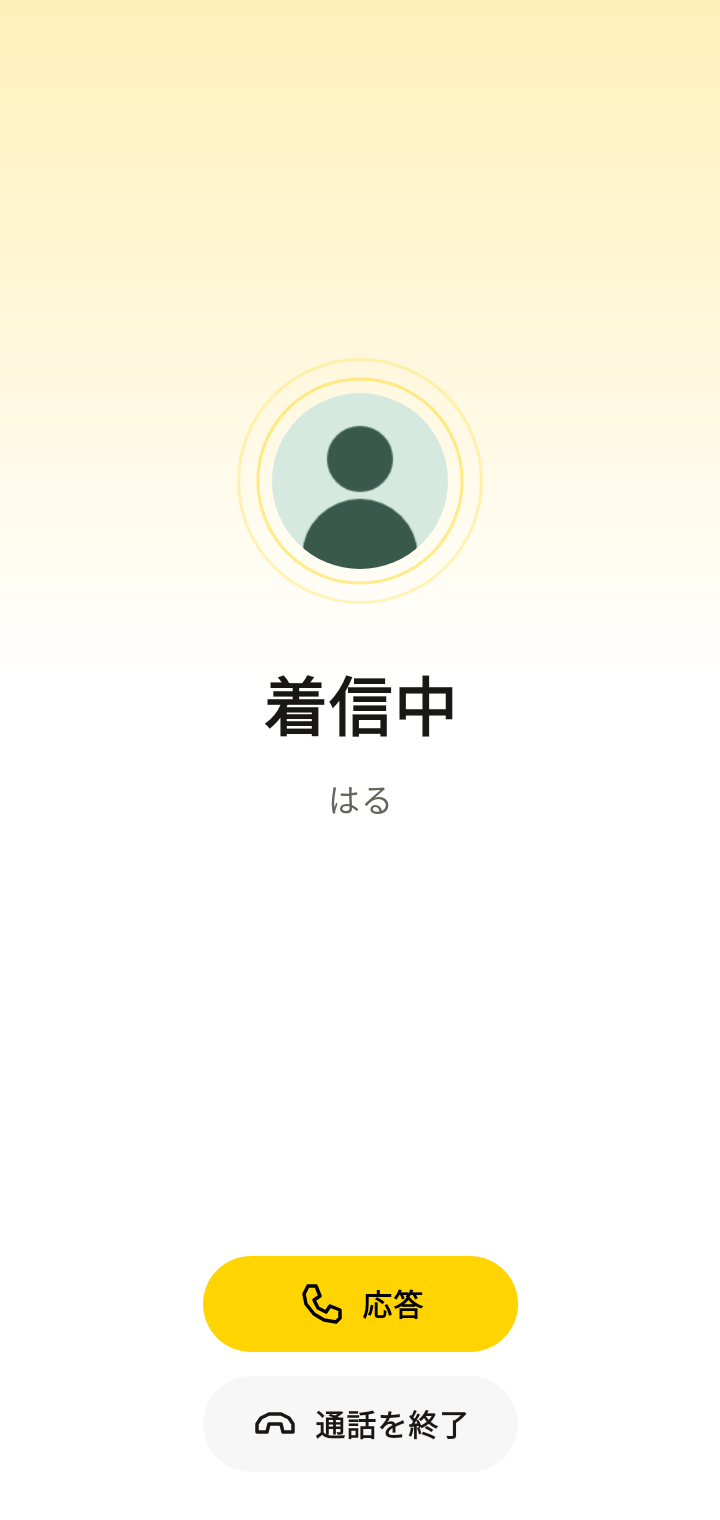
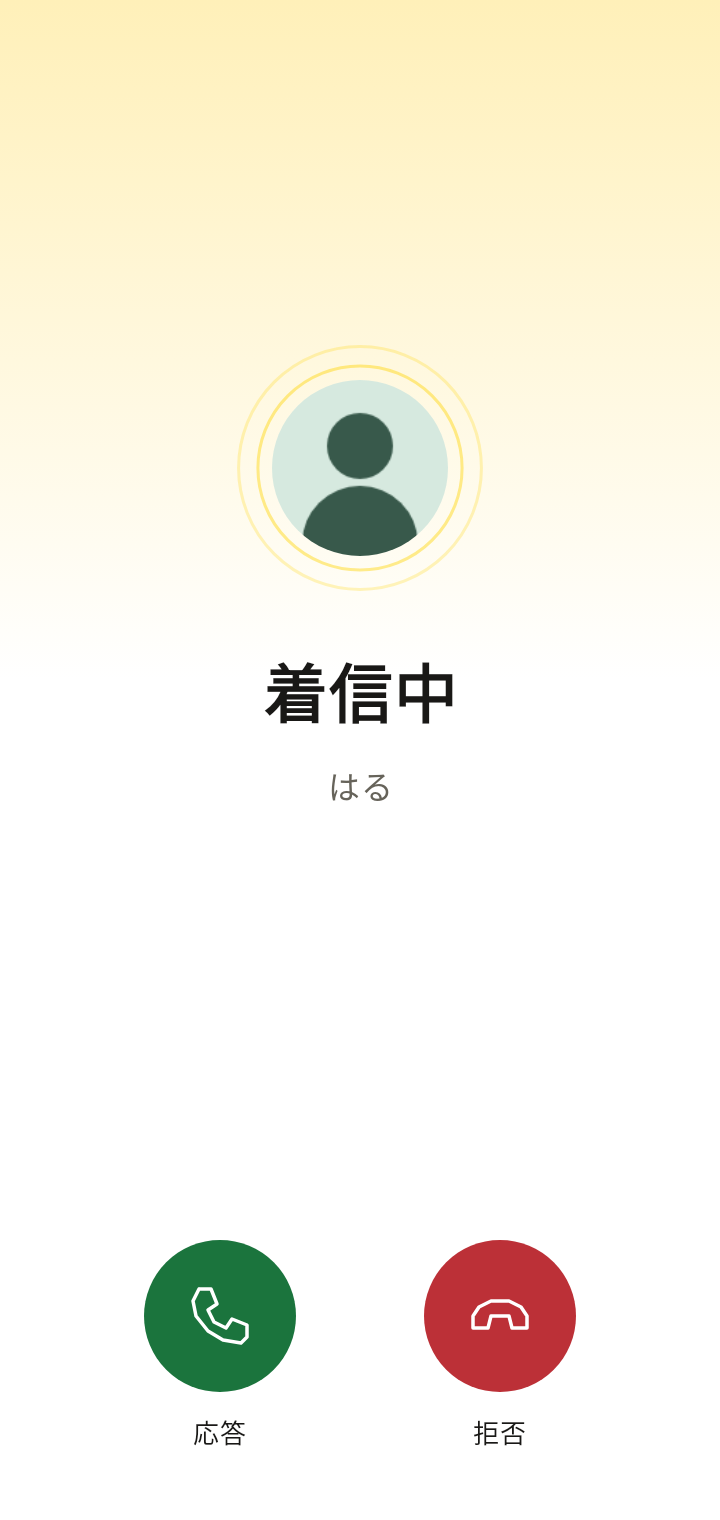
Android 着信の応答と拒否を色付きの円形ボタンにする

Changed region(s): [[0.1833, 0.8039, 0.7944, 0.9586], [0.3361, 0.2164, 0.6722, 0.402], [0.3667, 0.4329, 0.6417, 0.5566]]

diff --git a/frontend-compose/androidApp/src/main/kotlin/zoo/android/ui/AndroidScreens.kt b/frontend-compose/androidApp/src/main/kotlin/zoo/android/ui/AndroidScreens.kt
@@ -324,7 +324,19 @@ private fun RenderAndroidScreen(
                     CallAvatar(screen, colors, foreground && !interaction.reducedMotion, remoteAudioLevel)
                 },
             ) {
-                Column(Modifier.width(IntrinsicSize.Max), verticalArrangement = Arrangement.spacedBy(12.dp)) {
+                if (screen.incoming) {
+                    Row(
+                        Modifier.fillMaxWidth().padding(horizontal = 16.dp, vertical = 8.dp),
+                        horizontalArrangement = Arrangement.SpaceAround,
+                    ) {
+                        IncomingCallAction("応答", UiIcon.Phone, Color(0xff1b743d), colors) {
+                            dispatch(AndroidUiAction.Answer)
+                        }
+                        IncomingCallAction("拒否", UiIcon.PhoneOff, Color(0xffbc3037), colors) {
+                            dispatch(AndroidUiAction.HangUp)
+                        }
+                    }
+                } else Column(Modifier.width(IntrinsicSize.Max), verticalArrangement = Arrangement.spacedBy(12.dp)) {
                     if (screen.active) Row(Modifier.fillMaxWidth(), horizontalArrangement = Arrangement.spacedBy(20.dp, Alignment.CenterHorizontally)) {
                         CallToggle("ミュート", if (screen.muted) UiIcon.MicOff else UiIcon.Mic, screen.muted, colors) {
                             dispatch(AndroidUiAction.MuteCall)
@@ -334,12 +346,6 @@ private fun RenderAndroidScreen(
                         }
                     }
 
-                    if (screen.incoming) {
-                        TextAction("応答", colors, modifier = Modifier.fillMaxWidth(),
-                            icon = UiIcon.Phone, labelWeight = AndroidWeights.emphasis) {
-                            dispatch(AndroidUiAction.Answer)
-                        }
-                    }
                     TextAction("通話を終了", colors, style = TextActionStyle.Neutral, modifier = Modifier.fillMaxWidth(),
                         icon = UiIcon.PhoneOff, labelWeight = AndroidWeights.emphasis) {
                         dispatch(AndroidUiAction.HangUp)

diff --git a/frontend-compose/ui-preview/src/test/kotlin/zoo/android/ui/AndroidSamplesTest.kt b/frontend-compose/ui-preview/src/test/kotlin/zoo/android/ui/AndroidSamplesTest.kt
@@ -171,10 +171,13 @@ class AndroidSamplesTest {
                     ) { "Expected an 8dp inset around the post actions: $post / $photos / $toolbar" }
                 }
                 if (name == "call") {
-                    val answer = ui.onNodeWithText("応答").assertHeightIsEqualTo(48.dp).getUnclippedBoundsInRoot()
-                    val hangUp = ui.onNodeWithText("通話を終了").assertHeightIsEqualTo(48.dp).getUnclippedBoundsInRoot()
-                    check(answer.left == hangUp.left && answer.right == hangUp.right &&
-                        hangUp.top - answer.bottom == 12.dp) { "Incoming call actions should align: $answer / $hangUp" }
+                    ui.onNodeWithText("応答").assertHasClickAction()
+                    ui.onNodeWithText("拒否").assertHasClickAction()
+                    val answer = ui.onNodeWithTag("incoming-call-応答", useUnmergedTree = true)
+                        .assertWidthIsEqualTo(76.dp).assertHeightIsEqualTo(76.dp).getUnclippedBoundsInRoot()
+                    val decline = ui.onNodeWithTag("incoming-call-拒否", useUnmergedTree = true)
+                        .assertWidthIsEqualTo(76.dp).assertHeightIsEqualTo(76.dp).getUnclippedBoundsInRoot()
+                    check(answer.right < decline.left && answer.top == decline.top)
                 }
                 if (name == "call-active") {
                     ui.onNodeWithText("ミュート").assertIsOff()

diff --git a/frontend-compose/androidApp/src/main/kotlin/zoo/android/ui/CallAvatar.kt b/frontend-compose/androidApp/src/main/kotlin/zoo/android/ui/CallAvatar.kt
@@ -9,6 +9,7 @@ import androidx.compose.animation.core.tween
 import androidx.compose.foundation.Canvas
 import androidx.compose.foundation.Image
 import androidx.compose.foundation.background
+import androidx.compose.foundation.clickable
 import androidx.compose.foundation.selection.toggleable
 import androidx.compose.foundation.layout.Arrangement
 import androidx.compose.foundation.layout.Box
@@ -98,5 +99,20 @@ internal fun CallToggle(label: String, icon: UiIcon, active: Boolean, colors: An
             UiGlyph(icon, if (active) Color.Black else colors.foreground)
         }
         Text(label, color = colors.foreground, fontSize = 12.sp, fontWeight = AndroidWeights.label)
+    }
+}
+
+@Composable
+internal fun IncomingCallAction(label: String, icon: UiIcon, fill: Color, colors: AndroidColors, action: () -> Unit) {
+    Column(
+        Modifier.clickable(role = Role.Button, onClick = action),
+        horizontalAlignment = Alignment.CenterHorizontally,
+        verticalArrangement = Arrangement.spacedBy(8.dp),
+    ) {
+        Box(Modifier.size(76.dp).testTag("incoming-call-$label").background(fill, CircleShape),
+            contentAlignment = Alignment.Center) {
+            UiGlyph(icon, Color.White, iconSize = 36.dp)
+        }
+        Text(label, color = colors.foreground, fontSize = 13.sp, fontWeight = AndroidWeights.label)
     }
 }

diff --git a/frontend-compose/androidApp/src/main/kotlin/zoo/android/ui/UiIcon.kt b/frontend-compose/androidApp/src/main/kotlin/zoo/android/ui/UiIcon.kt
@@ -19,6 +19,7 @@ import androidx.compose.ui.graphics.drawscope.Stroke
 import androidx.compose.ui.semantics.Role
 import androidx.compose.ui.semantics.contentDescription
 import androidx.compose.ui.semantics.semantics
+import androidx.compose.ui.unit.Dp
 import androidx.compose.ui.unit.dp
 
 internal object AndroidControlSize {
@@ -56,8 +57,8 @@ internal fun UiIconButton(
 }
 
 @Composable
-internal fun UiGlyph(icon: UiIcon, color: Color) {
-    Canvas(Modifier.size(AndroidControlSize.icon)) {
+internal fun UiGlyph(icon: UiIcon, color: Color, iconSize: Dp = AndroidControlSize.icon) {
+    Canvas(Modifier.size(iconSize)) {
         fun point(x: Float, y: Float) = Offset(x * size.width / 24, y * size.height / 24)
         val width = 1.75.dp.toPx()
         fun lines(vararg points: Pair<Int, Int>) {

diff --git a/docs/android-design.md b/docs/android-design.md
@@ -27,7 +27,7 @@ Androidの見た目を変更するときの基準。数値の定義元は
 | 通知 | 送信者、通知の種類、会話名を読み順に置く。利用できる返信元や画像を補助情報として出す。未読ラベルを使う。通知画面に表示した項目を自動で既読にし、既読操作のボタンは置かない。 |
 | Bubble | 入力中の内容が共有されることを伝え、入力欄を下に配置する。 |
 | 設定 | トップにテーマ、言語、各設定の入口を置く。行やセクションの区切り線を省き、見出しと余白で項目をまとめる。更新・バージョン情報と通知の権限設定は設定の子画面に置く。子画面は下部タブを隠す。 |
-| 通話・ログイン | 主要操作は中央の内容幅のボタンにする。セッション復元中もログイン画面のレイアウトを使い、Zoo マークの下に小さな進捗表示を置く。着信時の応答・終了は長いラベルに合わせて同じ幅と高さにし、24dpのアイコンと600ウェイトを使う。ログインなど結果が重要な操作にも文字を付ける。通話は中央に相手のアバターを表示する。着信中は2つの波紋が間隔を空けて広がり、接続後は相手の受信音声レベルで波紋の広がりと濃さを変える。無音時と端末で動きを減らす設定が有効な場合は静止する。 |
+| 通話・ログイン | 主要操作は中央の内容幅のボタンにする。セッション復元中もログイン画面のレイアウトを使い、Zoo マークの下に小さな進捗表示を置く。着信時は下部左に緑の応答、右に赤の拒否を並べる。同じ大きさの円に白い電話アイコンを置き、その下に小さなラベルを添える。ログインなど結果が重要な操作にも文字を付ける。通話は中央に相手のアバターを表示する。着信中は2つの波紋が間隔を空けて広がり、接続後は相手の受信音声レベルで波紋の広がりと濃さを変える。無音時と端末で動きを減らす設定が有効な場合は静止する。 |
 
 新規画面にも同じルールを適用する。機能別の実キャプチャを新規・変更時のPRに添付する。上部の光、操作列、一覧の枠、戻り先などを設計と実画面で見比べる。
 
